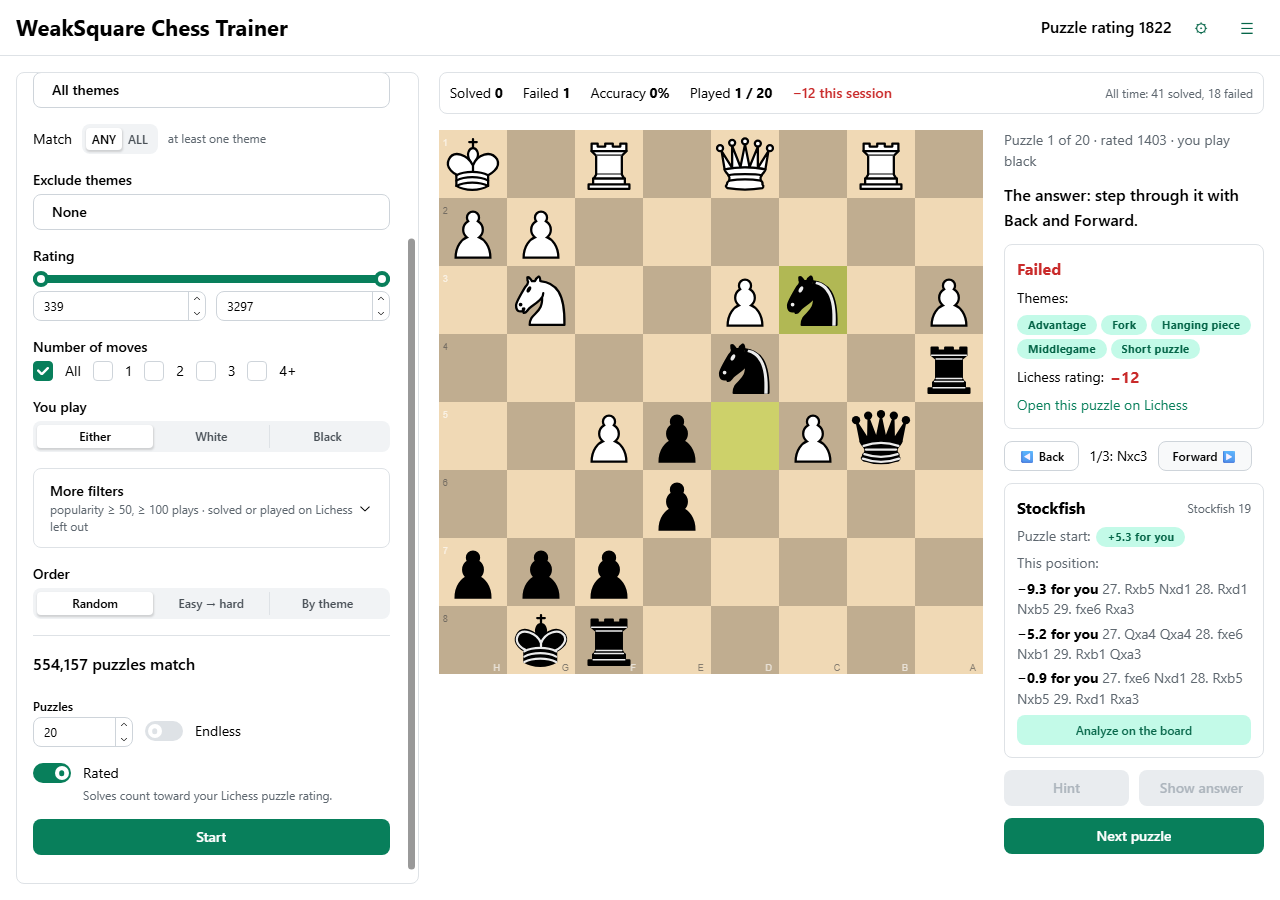
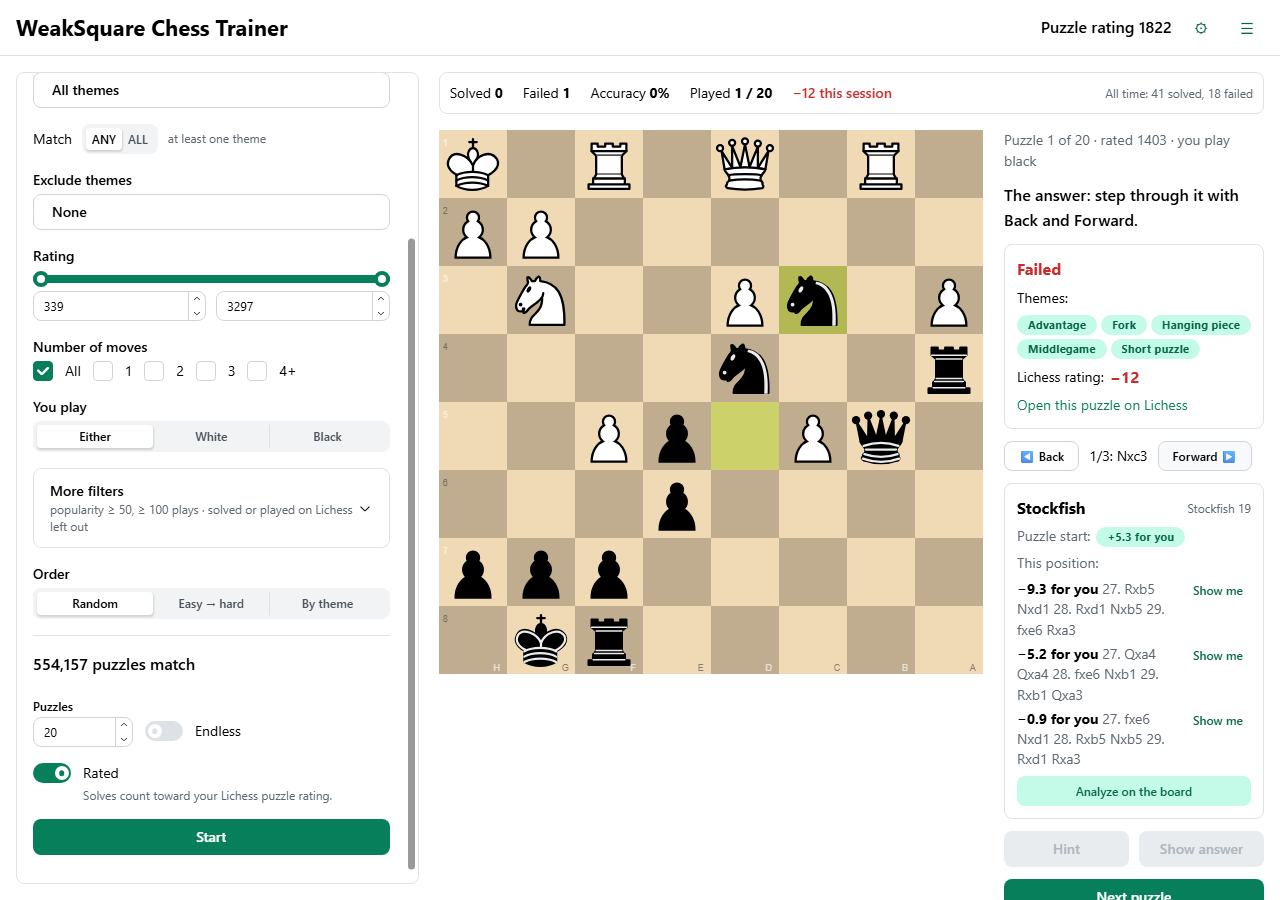
v0.4 (Adam's manual test): "Show me" steps through any Stockfish line on the board (FR-7.7)
Each engine line in the post-puzzle panel and on the analysis board has Show me: the line goes on the
board read-only at its start, you step it with Back/Forward or arrow keys, Done returns. The panel keeps
the lines of the underlying position. e2e tests, User Guide section + show-me.png, CHANGELOG.
REQUIREMENTS also records FR-5.4's re-openable Show answer and FR-5.12 Try again (not scored), which
Adam asked for next; they're built in the following commit.

Checks: e2e 131, screenshots 16, smoke 21 (+1 opt-in skip), check_docs --strict clean.

Changed region(s): [[0.7812, 0.6533, 1.0, 1.0]]

diff --git a/web/src/views/TrainerView.tsx b/web/src/views/TrainerView.tsx
@@ -12,7 +12,7 @@ import { AnalyzeButton, EnginePanel } from "../components/EnginePanel";
 import { RatingChange } from "../components/LichessStatus";
 import { SessionBar } from "../components/SessionBar";
 import { sounds } from "../sound/player";
-import { legalArrow, useEngineStatus } from "../state/engine";
+import { legalArrow, pvToSan, useEngineStatus } from "../state/engine";
 import { useShortcuts } from "../state/shortcuts";
 
 const OPPONENT_DELAY_MS = 500;
@@ -59,6 +59,8 @@ export function TrainerView({
   const [answer, setAnswer] = useState<{ positions: AnswerPosition[]; step: number; segments: AnswerSegment[] } | null>(null);
   const [refutation, setRefutation] = useState<"loading" | "missing" | { error: string } | null>(null);
   const [analysis, setAnalysis] = useState<AnalysisState | null>(null);
+  // "Show me" (FR-7.7): an engine line stepped through on the board, over the position it came from.
+  const [preview, setPreview] = useState<{ from: string; label: string; positions: AnswerPosition[]; step: number } | null>(null);
   const [bestMove, setBestMove] = useState<string | null>(null);
   const [engine, refreshEngine] = useEngineStatus();
   const [helpBusy, setHelpBusy] = useState(false);
@@ -132,6 +134,7 @@ export function TrainerView({
     setAnswer(null);
     setRefutation(null);
     setAnalysis(null);
+    setPreview(null);
     setBestMove(null);
     try {
       const next = await api.nextPuzzle(sessionId);
@@ -292,7 +295,16 @@ export function TrainerView({
   const analysisPos = analysis ? analysis.positions[analysis.step] : null;
   const boardFen = analysisPos ? analysisPos.fen : shown ? shown.fen : fen;
   const startFen = view ? (() => { const c = new Chess(view.fen); c.move(uciMove(view.opponent_move)); return c.fen(); })() : null;
-  const arrow = analysisPos ? legalArrow(analysisPos.fen, bestMove ?? undefined) : null;
+  // A preview belongs to the position it was opened on: moving on (answer, analysis board) ends it.
+  const linePreview = preview && preview.from === boardFen ? preview : null;
+  const previewPos = linePreview ? linePreview.positions[linePreview.step] : null;
+  const arrow = analysisPos && !previewPos ? legalArrow(analysisPos.fen, bestMove ?? undefined) : null;
+  const showLine = (from: string, pv: string[]) =>
+    setPreview({ from, label: `Showing: ${pvToSan(from, pv, pv.length)}`, positions: answerPositions(from, pv), step: 0 });
+  const stepPreview = (to: number) => {
+    if (!linePreview) return;
+    setPreview({ ...linePreview, step: Math.min(Math.max(to, 0), linePreview.positions.length - 1) });
+  };
   const canHint = view !== null && movable !== null && !lineDone && !answer && !helpBusy;
   const canAnswer = view !== null && !answer && !helpBusy && (hinted || decided || lineDone) && (lineDone || movable !== null);
   const stepAnalysis = (to: number) => {
@@ -305,6 +317,7 @@ export function TrainerView({
     setAnalysis(next ? next : { ...analysis }); // an illegal move snaps back
   };
   const stepAnswer = (delta: number) => {
+    if (linePreview) return stepPreview(linePreview.step + delta);
     if (analysis) return stepAnalysis(analysis.step + delta);
     if (!answer) return;
     const to = Math.min(Math.max(answer.step + delta, 0), answer.positions.length - 1);
@@ -359,10 +372,10 @@ export function TrainerView({
         <div style={{ flex: "1 1 560px", minWidth: 320 }}>
           {fen && view && (
             <Board
-              fen={boardFen ?? fen}
+              fen={previewPos ? previewPos.fen : (boardFen ?? fen)}
               orientation={view.player_color}
-              movable={analysisPos ? "both" : shown ? null : movable}
-              lastMove={analysisPos ? analysisPos.lastMove : shown ? shown.lastMove : lastMove}
+              movable={previewPos ? null : analysisPos ? "both" : shown ? null : movable}
+              lastMove={previewPos ? previewPos.lastMove : analysisPos ? analysisPos.lastMove : shown ? shown.lastMove : lastMove}
               onMove={analysisPos ? onAnalysisMove : onMove}
               hintSquare={analysisPos ? null : hintSquare}
               coordinates={coordinates}
@@ -408,7 +421,7 @@ export function TrainerView({
               </Stack>
             </Paper>
           )}
-          {answer && !analysis && (
+          {answer && !analysis && !linePreview && (
             <AnswerPlayer
               positions={answer.positions}
               step={answer.step}
@@ -436,8 +449,21 @@ export function TrainerView({
               status={engine}
               onStatusChanged={refreshEngine}
               onBestMove={setBestMove}
+              onShowLine={showLine}
             >
-              {analysis ? (
+              {linePreview ? (
+                <Stack gap={4} data-testid="line-preview">
+                  <AnswerPlayer
+                    positions={linePreview.positions}
+                    step={linePreview.step}
+                    segments={[{ label: linePreview.label, from: 0 }]}
+                    onStep={stepPreview}
+                  />
+                  <Button size="xs" variant="light" color="gray" onClick={() => setPreview(null)} data-testid="line-preview-done">
+                    Done
+                  </Button>
+                </Stack>
+              ) : analysis ? (
                 <AnalysisControls
                   state={analysis}
                   onStep={stepAnalysis}

diff --git a/web/src/components/EnginePanel.tsx b/web/src/components/EnginePanel.tsx
@@ -27,6 +27,7 @@ export function EnginePanel({
   status,
   onStatusChanged,
   onBestMove,
+  onShowLine,
   children,
 }: {
   sessionId: number;
@@ -37,6 +38,8 @@ export function EnginePanel({
   onStatusChanged: () => void;
   /** The current position's best move (UCI), for the analysis board's arrow. */
   onBestMove?: (uci: string | null) => void;
+  /** "Show me" (FR-7.7): step through this line on the board, from `fen`. */
+  onShowLine?: (fen: string, pv: string[]) => void;
   children?: React.ReactNode;
 }) {
   const ready = status?.state === "ready";
@@ -138,14 +141,27 @@ export function EnginePanel({
         ) : (
           <Stack gap={4} data-testid="engine-lines">
             {shown.lines.map((line, i) => (
-              <Text key={i} size="sm" data-testid="engine-line">
-                <Text span fw={700}>
-                  {line.score}
-                </Text>{" "}
-                <Text span c="dimmed">
-                  {pvToSan(shown.fen, line.pv)}
+              <Group key={i} gap={6} wrap="nowrap" align="flex-start" justify="space-between">
+                <Text size="sm" data-testid="engine-line">
+                  <Text span fw={700}>
+                    {line.score}
+                  </Text>{" "}
+                  <Text span c="dimmed">
+                    {pvToSan(shown.fen, line.pv)}
+                  </Text>
                 </Text>
-              </Text>
+                {onShowLine && line.pv.length > 0 && (
+                  <Button
+                    size="compact-xs"
+                    variant="subtle"
+                    style={{ flexShrink: 0 }}
+                    onClick={() => onShowLine(shown.fen, line.pv)}
+                    data-testid="show-line"
+                  >
+                    Show me
+                  </Button>
+                )}
+              </Group>
             ))}
           </Stack>
         )}

diff --git a/web/src/state/shortcuts.ts b/web/src/state/shortcuts.ts
@@ -7,7 +7,7 @@ export const SHORTCUTS: { keys: string; action: string }[] = [
   { keys: "N or Enter", action: "Next puzzle (or Skip, which counts as failed)" },
   { keys: "H", action: "Hint" },
   { keys: "A", action: "Show answer" },
-  { keys: "← / →", action: "Step back / forward through the answer" },
+  { keys: "← / →", action: "Step back / forward (the answer, the analysis board, a line you chose with Show me)" },
   { keys: "C", action: "Show or hide the board coordinates" },
   { keys: "?", action: "This list" },
 ];

diff --git a/tests/e2e/test_engine_ui.py b/tests/e2e/test_engine_ui.py
@@ -208,3 +208,61 @@ def test_about_shows_a_missing_custom_engine(page) -> None:  # type: ignore[no-u
     page.get_by_role("button", name="Menu").click()
     page.get_by_role("menuitem", name="About").click()
     page.get_by_test_id("about-engine").filter(has_text="can't be found").wait_for()
+
+
+def test_show_me_steps_through_a_line_on_the_board(page) -> None:  # type: ignore[no-untyped-def]
+    """FR-7.7 "Show me" (added during v0.4's manual test): each engine line can be stepped through on the
+    board, read-only, starting at the position it came from; Done returns to that position."""
+    start(page)
+    solve(page)
+    page.get_by_test_id("engine-line").first.wait_for()
+    board = page.get_by_test_id("board")
+    before = board.get_attribute("data-fen")
+    first_line = page.get_by_test_id("engine-line").first.inner_text()
+    page.get_by_test_id("show-line").first.click()
+    preview = page.get_by_test_id("line-preview")
+    preview.wait_for()
+    assert preview.get_by_test_id("answer-segment").inner_text().startswith("Showing: ")
+    first_san = first_line.split(". ", 1)[1].split()[0]  # "+1.2 for you 28. Rb8 …" -> "Rb8"
+    assert first_san in preview.get_by_test_id("answer-segment").inner_text()
+    assert preview.get_by_test_id("answer-step").inner_text() == "Start"
+    assert board.get_attribute("data-fen") == before  # nothing moves until you step
+    preview.get_by_role("button", name="Forward").click()
+    assert preview.get_by_test_id("answer-step").inner_text().startswith("1/")
+    assert first_san in preview.get_by_test_id("answer-step").inner_text()
+    after_one = board.get_attribute("data-fen")
+    assert after_one != before
+    move = chess.Move.from_uci(next(iter(chess.Board(after_one).legal_moves)).uci())
+    play(page, move.uci(), "black")  # the board is read-only while showing a line
+    page.wait_for_timeout(300)
+    assert board.get_attribute("data-fen") == after_one
+    page.keyboard.press("ArrowRight")  # → steps the line too
+    assert preview.get_by_test_id("answer-step").inner_text().startswith("2/")
+    page.keyboard.press("ArrowLeft")
+    page.keyboard.press("ArrowLeft")
+    assert preview.get_by_test_id("answer-step").inner_text() == "Start"
+    page.get_by_test_id("line-preview-done").click()
+    assert page.get_by_test_id("line-preview").count() == 0
+    assert board.get_attribute("data-fen") == before
+    assert page.get_by_test_id("engine-line").first.inner_text() == first_line  # the panel didn't change
+
+
+def test_show_me_on_the_analysis_board(page) -> None:  # type: ignore[no-untyped-def]
+    """Show me also works on the analysis board; Done returns to your analysis position, where you can
+    keep moving."""
+    start(page)
+    solve(page)
+    page.get_by_test_id("analyze-button").click()
+    board = page.get_by_test_id("board")
+    play(page, "b5b8", "black")  # Rb8 on the analysis board
+    page.get_by_test_id("analysis-moves").filter(has_text="Rb8").wait_for()
+    analysed = board.get_attribute("data-fen")
+    page.get_by_test_id("engine-line").first.wait_for()
+    page.get_by_test_id("show-line").first.click()
+    page.get_by_test_id("line-preview").get_by_role("button", name="Forward").click()
+    assert board.get_attribute("data-fen") != analysed
+    assert board.get_attribute("data-arrows") == ""  # no best-move arrow over a line being shown
+    page.get_by_test_id("line-preview-done").click()
+    assert board.get_attribute("data-fen") == analysed
+    page.get_by_test_id("analysis-controls").wait_for()
+    assert page.get_by_test_id("analysis-moves").inner_text() == "Rb8"

diff --git a/tests/e2e/test_docs_screenshots.py b/tests/e2e/test_docs_screenshots.py
@@ -261,3 +261,16 @@ def test_settings_engine(page) -> None:  # type: ignore[no-untyped-def]
     section.scroll_into_view_if_needed()
     page.mouse.move(1270, 890)
     shot(page, "settings-engine")
+
+
+def test_show_me(page) -> None:  # type: ignore[no-untyped-def]
+    """v0.4 (FR-7.7): stepping through one of Stockfish's lines with Show me."""
+    _start(page)
+    _solve(page)
+    page.get_by_test_id("engine-line").first.wait_for()
+    page.get_by_test_id("show-line").first.click()
+    preview = page.get_by_test_id("line-preview")
+    preview.get_by_role("button", name="Forward").click()
+    preview.get_by_role("button", name="Forward").click()
+    page.mouse.move(1270, 890)
+    shot(page, "show-me")

diff --git a/REQUIREMENTS.md b/REQUIREMENTS.md
@@ -178,7 +178,8 @@ All six modes ship in version 1. The user picks one per session from a selector 
 - **FR-5.1** A **win** means the full line was solved with no wrong move and **no help used**. This matches Lichess's definition.
 - **FR-5.2** **Any help before completion counts as a loss:** Hint, Show answer or Explain.
 - **FR-5.3** A wrong move is a loss. The puzzle then continues so you can see the solution, with nothing more to lose.
-- **FR-5.4** After a puzzle ends (win or loss), Show answer and Explain are free.
+- **FR-5.4** After a puzzle ends (win or loss), Show answer and Explain are free. Show answer stays available after the end: clicking it again closes the analysis board and any line being shown, and goes back to the start of the answer (the refutation first, when there is one). On the analysis board, **Close** reads **Back to the answer** when there's an answer to go back to. (Adam, v0.4 manual test.)
+- **FR-5.12** **Try again (not scored):** after a puzzle ends, **Try again** resets the board to the puzzle's start and lets you solve it again with the usual feedback and replies. It's practice: nothing is recorded, nothing is sent to Lichess, and the result shown for the puzzle stays the one from your first attempt. Hint and Show answer are free while practising. The engine stays hidden until the practice run ends, as in any puzzle (FR-7.3). (Adam, v0.4 manual test; chosen over letting Reset clear the result, because the first result may already be on Lichess.)
 - **FR-5.5** Record per attempt: `first_move_correct`, `line_correct`, `help_used` (none / hint / answer / explain), and `time_ms`.
 
 ### 7.2 Stuck ladder (each step unlocks the next)
@@ -288,6 +289,7 @@ Lichess weights rating changes by the reported `angle`, because a theme that's k
   - the eval of the puzzle's start position, pinned at the top;
   - the eval and top 3 lines of whichever position is on the board, following you as you step through Show answer;
   - an **Analyze** button that turns the board into a free **analysis board**: you move pieces for either side (legal moves only), and after each move the engine re-analyzes and shows the eval, the top 3 lines and an arrow for its best move. Back, Forward, Reset (to the puzzle position) and Close. Nothing on the analysis board is ever scored.
+  - **Show me** next to each engine line (in the panel and on the analysis board): the line goes on the board at its starting position, read-only, and you step through it yourself with Back / Forward (or ← / →); nothing moves until you do. **Done** returns to the position you were on. (Adam, during the v0.4 manual test.)
 
 ### 9.2 LLM "Explain"
 - **FR-8.1** Optional. The button only appears when a provider and key are configured. Providers: **Anthropic** and **OpenAI**, behind one interface (`explain(context) -> ExplainResult`).

diff --git a/docs/USER_GUIDE.md b/docs/USER_GUIDE.md
@@ -305,6 +305,10 @@ Once the puzzle is over (you finished the line, or you used Show answer), the **
 
 ![The engine panel after a puzzle](img/engine-panel.png)
 
+**Show me:** each line has a **Show me** button. It puts that line on the board and you step through it yourself: **Forward ▶** plays the next move, **◀ Back** takes it back (or use **→** and **←**). Nothing moves until you step, and you can't move pieces while a line is showing. **Done** puts the board back where you were. The panel keeps showing the lines for that position meanwhile. It works on the analysis board too.
+
+![Stepping through one of Stockfish's lines](img/show-me.png)
+
 **Reading the evaluation.** Evaluations are always from **your side** (the side you played in the puzzle):
 
 | You see | It means |
@@ -345,7 +349,7 @@ In **⚙ Settings → Engine**:
 | **N** or **Enter** | Next puzzle (before the puzzle is decided, that's Skip, which counts as failed). On the session summary, a new session. |
 | **H** | Hint |
 | **A** | Show answer (once it's unlocked) |
-| **←** / **→** | Step back / forward through the answer, or through your moves on the analysis board (v0.4) |
+| **←** / **→** | Step back / forward through the answer, through your moves on the analysis board, or through a line you chose with **Show me** (v0.4) |
 | **C** | Show or hide the letters and numbers around the board |
 | **?** | The list of shortcuts (also in **☰ → Keyboard shortcuts**) |
 

diff --git a/CHANGELOG.md b/CHANGELOG.md
@@ -17,6 +17,7 @@ Candidates: v0.4-rc1 (2026-11-02)
 ### Added
 - **Why your move fails:** after a wrong move, **Show answer** first plays your move and Stockfish's best reply line (up to 5 moves) with the evaluation, then the solution. [FR-7.2]
 - **Stockfish after each puzzle:** once a puzzle is over, a panel shows the evaluation of the starting position and the top 3 lines for whatever is on the board, following you through the answer. Evaluations read from your side, e.g. "+3.2 for you". Nothing from the engine is ever shown while you're solving. [FR-7.2] [FR-7.3] [FR-7.7]
+- **Show me:** each of Stockfish's lines has a **Show me** button that puts the line on the board for you to step through with Back / Forward; **Done** returns. [FR-7.7]
 - **Analysis board:** **Analyze on the board** lets you move pieces for either side after a puzzle, with Stockfish's evaluation, top lines and a best-move arrow after each move. Nothing there is scored. [FR-7.7]
 - **Install Stockfish from the app:** where the engine would appear and it isn't installed, *Stockfish isn't installed* offers **Install Stockfish**, with progress. [FR-7.5]
 - **Settings → Engine:** think time, threads and hash, **Use my own engine…** (any UCI engine that passes a self-test) and **Reinstall**. About shows the engine in use and where it is. [FR-7.4] [FR-7.5] [NFR-7]
